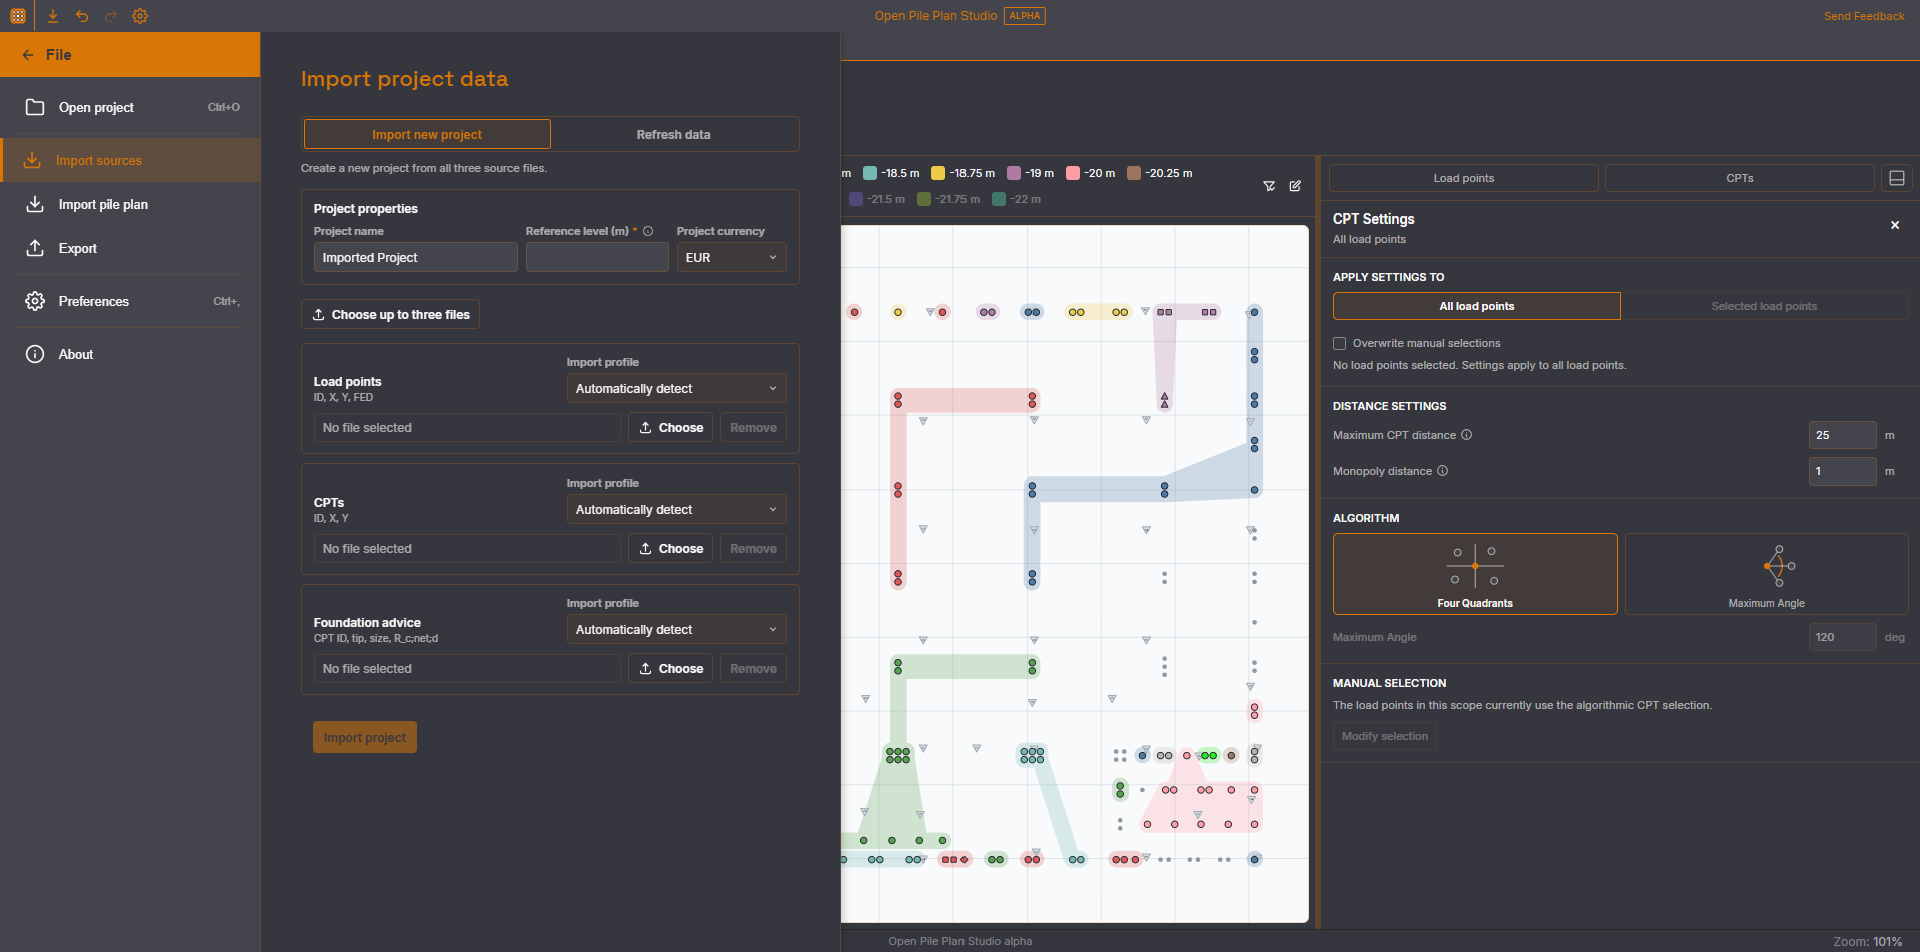
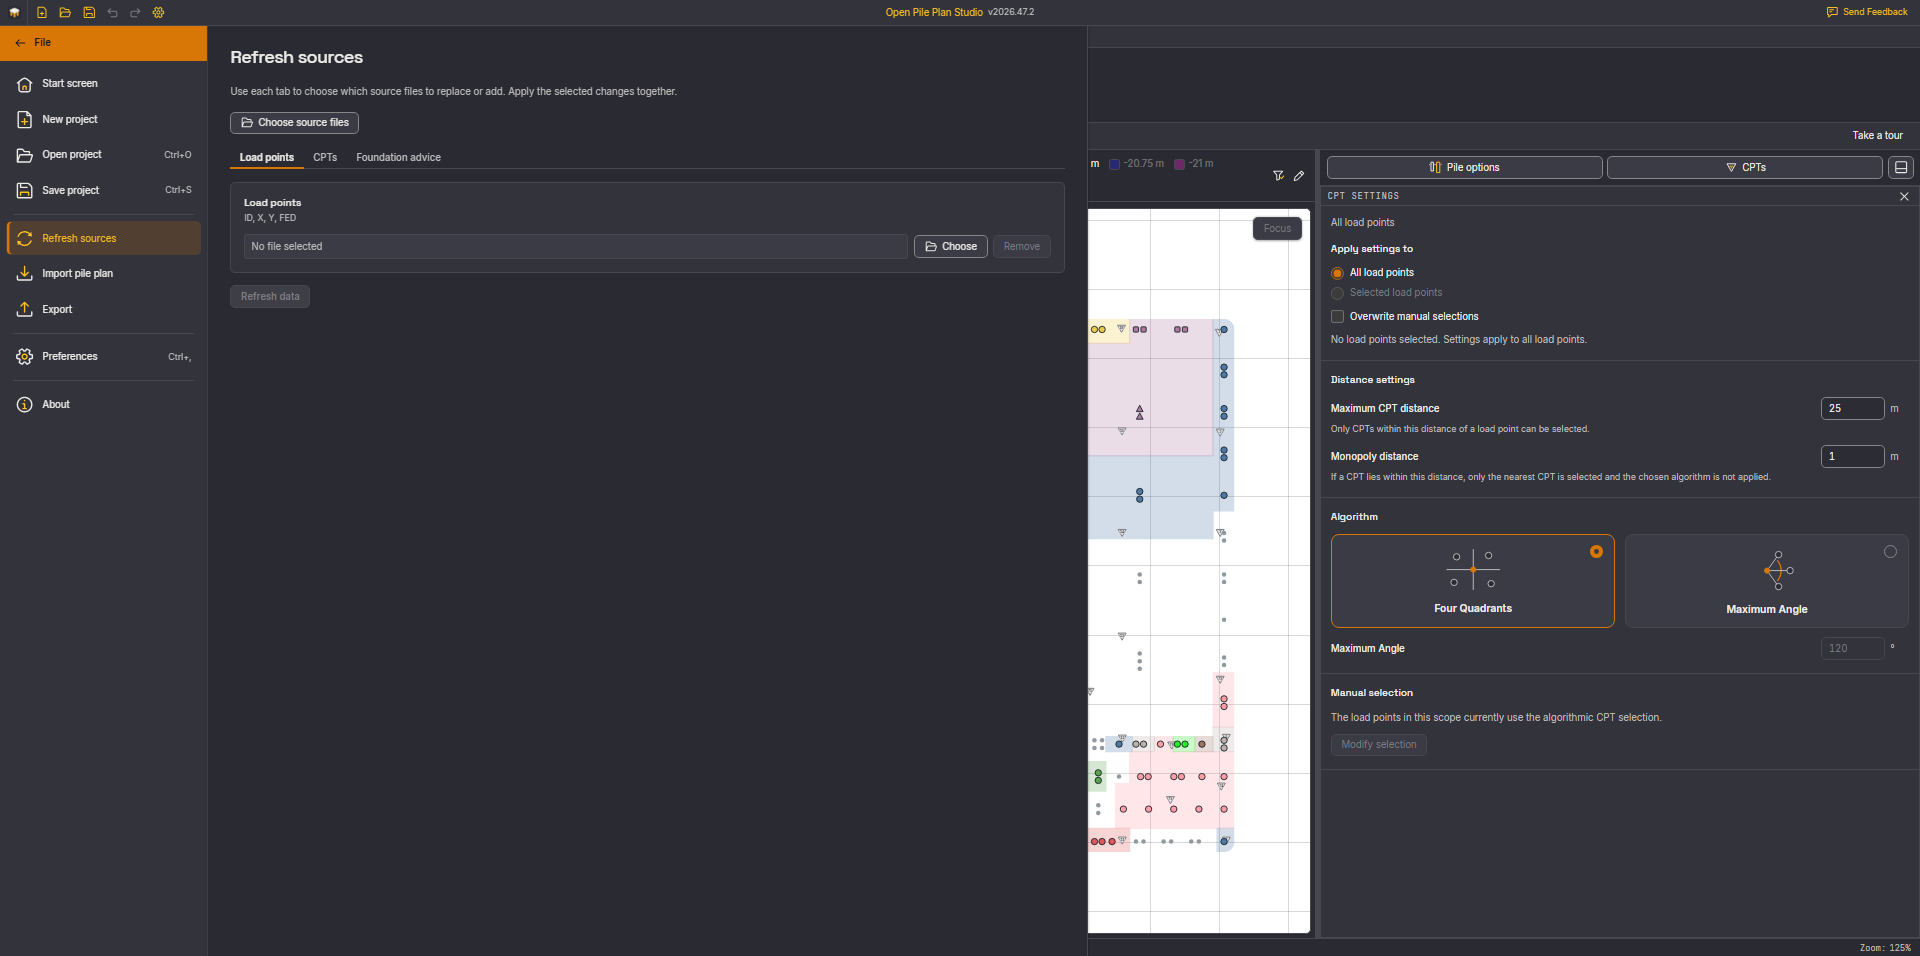
Align release version display and refresh documentation screenshots

diff --git a/apps/pile-plan-studio/src/components/template/TitleBar.tsx b/apps/pile-plan-studio/src/components/template/TitleBar.tsx
@@ -1,7 +1,6 @@
-import { useEffect, useState, type ReactNode } from "react";
+import type { ReactNode } from "react";
 import { useTranslation } from "react-i18next";
-import { isTauriRuntime } from "../../core/coreTransport.ts";
-import { PRODUCT_STATUS_KEY } from "../../productInfo.ts";
+import { IS_ALPHA_RELEASE, PRODUCT_INFO } from "../../productInfo.ts";
 import { Button, IconButton, OpenAECProvider, Status } from "../../openaec/react/src/index";
 import spriteUrl from "../../openaec/studioSprite.ts";
 import "../../openaec/openaec-components.css";
@@ -35,19 +34,9 @@ export default function TitleBar({
   onUndo, onRedo, onNewProject, onOpenProject, onSettingsClick, onFeedbackClick, interfaceScaleControl,
 }: TitleBarProps) {
   const { t } = useTranslation();
-  const releaseStatus = t(PRODUCT_STATUS_KEY);
-  const [appVersion, setAppVersion] = useState("");
   const projectActionLabel = t(projectActionKind === "save" ? "save" : "saveProjectDownload");
   const newProjectLabel = t("startScreen.newProject");
   const openProjectLabel = t("startScreen.openProject");
-  useEffect(() => {
-    if (!isTauriRuntime()) return;
-    let active = true;
-    import("@tauri-apps/api/app").then(api => api.getVersion())
-      .then(version => { if (active) setAppVersion(version); })
-      .catch(() => { if (active) setAppVersion(""); });
-    return () => { active = false; };
-  }, []);
 
   return <OpenAECProvider sprite={spriteUrl}>
     <header className="oa-app titlebar titlebar-blueprint" role="banner" onKeyDown={event => {
@@ -77,11 +66,11 @@ export default function TitleBar({
       </div>
       <div className="titlebar-title">
         <span className="titlebar-name">{t("appName")}</span>
-        <span className="titlebar-release-badge" data-tooltip={t("engineeringDisclaimer")}
-          aria-label={releaseStatus + ": " + t("engineeringDisclaimer")} tabIndex={0}>
-          <Status tone={PRODUCT_STATUS_KEY === "alphaLabel" ? "warning" : "success"}>{releaseStatus}</Status>
-        </span>
-        {appVersion && <span className="titlebar-version">v{appVersion}</span>}
+        <span className="titlebar-version" data-tooltip={t("engineeringDisclaimer")}
+          aria-label={`v${PRODUCT_INFO.version}. ${t("engineeringDisclaimer")}`} tabIndex={0}>v{PRODUCT_INFO.version}</span>
+        {IS_ALPHA_RELEASE && <span className="titlebar-release-badge">
+          <Status tone="warning">{t("alphaLabel")}</Status>
+        </span>}
       </div>
       <div className="titlebar-actions">
         <div className="titlebar-scale-anchor">{interfaceScaleControl}</div>

diff --git a/apps/pile-plan-studio/src/components/template/chromeActions.test.tsx b/apps/pile-plan-studio/src/components/template/chromeActions.test.tsx
@@ -1,7 +1,7 @@
 import { fireEvent, render, screen, waitFor } from "@testing-library/react";
 import { expect, test, vi } from "vitest";
 import i18n from "../../i18n/config.ts";
-import { PRODUCT_STATUS_KEY } from "../../productInfo.ts";
+import { IS_ALPHA_RELEASE, PRODUCT_INFO } from "../../productInfo.ts";
 import TitleBar from "./TitleBar.tsx";
 import FeedbackDialog from "./feedback/FeedbackDialog.tsx";
 import StatusBar from "./StatusBar.tsx";
@@ -45,8 +45,10 @@ test("shared titlebar actions expose shortcuts and use the application tooltip l
   fireEvent.focus(save);
   expect(screen.getByRole("tooltip").textContent).toContain("Ctrl+S");
   const release = view.container.querySelector(".titlebar-release-badge");
-  expect(release?.textContent).toBe(i18n.t(PRODUCT_STATUS_KEY));
-  expect(release?.getAttribute("data-tooltip")).toBe(i18n.t("engineeringDisclaimer"));
+  expect(release?.textContent ?? null).toBe(IS_ALPHA_RELEASE ? i18n.t("alphaLabel") : null);
+  const version = view.container.querySelector(".titlebar-version");
+  expect(version?.textContent).toBe(`v${PRODUCT_INFO.version}`);
+  expect(version?.getAttribute("data-tooltip")).toBe(i18n.t("engineeringDisclaimer"));
   const redo = screen.getByRole("button", { name: "Redo change" });
   expect(redo.getAttribute("data-tooltip")).toBeNull();
 });

diff --git a/apps/pile-plan-studio/src/components/template/settings/SettingsDialog.tsx b/apps/pile-plan-studio/src/components/template/settings/SettingsDialog.tsx
@@ -1,7 +1,7 @@
 import { useState, useEffect, useRef } from "react";
 import { useTranslation } from "react-i18next";
 import { LANGUAGES, changeLanguage } from "../../../i18n/config";
-import { PRODUCT_INFO, PRODUCT_STATUS_KEY } from "../../../productInfo.ts";
+import { IS_ALPHA_RELEASE, PRODUCT_INFO } from "../../../productInfo.ts";
 import type { UserLanguage } from "../../../domain/settings/userSettings.ts";
 import type { McpConnection } from "../../../app/mcp/desktopBridge.ts";
 import { applyTheme } from "../../../app/appearance/applyAppearance.ts";
@@ -423,7 +423,7 @@ function AboutTabContent() {
           {t("about.description")}
         </p>
         <p><strong>{t("about.version")}:</strong> {PRODUCT_INFO.version}</p>
-        <p><strong>{t("about.status")}:</strong> {tCommon(PRODUCT_STATUS_KEY)}</p>
+        {IS_ALPHA_RELEASE && <p><strong>{t("about.status")}:</strong> {tCommon("alphaLabel")}</p>}
         <p><strong>{t("about.organization")}:</strong> {PRODUCT_INFO.organization}</p>
         <p><strong>{t("about.license")}:</strong> {PRODUCT_INFO.license}</p>
       </div>

diff --git a/apps/pile-plan-studio/src/components/template/backstage/AboutPanel.tsx b/apps/pile-plan-studio/src/components/template/backstage/AboutPanel.tsx
@@ -1,7 +1,7 @@
 import { useTranslation } from "react-i18next";
 import { isTauriRuntime } from "../../../core/coreTransport.ts";
 import { Button, Heading, InfoCard } from "../../../openaec/react/src/index";
-import { PRODUCT_INFO, PRODUCT_STATUS_KEY } from "../../../productInfo.ts";
+import { IS_ALPHA_RELEASE, PRODUCT_INFO } from "../../../productInfo.ts";
 
 export default function AboutPanel({ hideLinks = false }: { hideLinks?: boolean }){
   const {t}=useTranslation("backstage");
@@ -21,7 +21,7 @@ export default function AboutPanel({ hideLinks = false }: { hideLinks?: boolean 
     <p className="bs-about-tagline">{t("aboutPanel.tagline")}</p>
     <p>{t("aboutPanel.description")}</p>
     <InfoCard title={PRODUCT_INFO.name} facts={[
-      [t("aboutPanel.version"),`${PRODUCT_INFO.version} · ${tCommon(PRODUCT_STATUS_KEY)}`],
+      [t("aboutPanel.version"),IS_ALPHA_RELEASE ? `${PRODUCT_INFO.version} · ${tCommon("alphaLabel")}` : PRODUCT_INFO.version],
       [t("aboutPanel.license"),PRODUCT_INFO.license],
     ]}/>
     <section className="bs-about-company">

diff --git a/apps/pile-plan-studio/src/components/template/CommandSurface.test.ts b/apps/pile-plan-studio/src/components/template/CommandSurface.test.ts
@@ -10,11 +10,11 @@ describe("Application command surfaces", () => {
     const enCommon = readFileSync(resolve(import.meta.dirname, "../../i18n/locales/en/common.json"), "utf8");
     const nlCommon = readFileSync(resolve(import.meta.dirname, "../../i18n/locales/nl/common.json"), "utf8");
 
-    assert.match(titleBar, /t\(PRODUCT_STATUS_KEY\)/);
+    assert.match(titleBar, /v\{PRODUCT_INFO\.version\}/);
+    assert.match(titleBar, /IS_ALPHA_RELEASE && <span className="titlebar-release-badge"/);
+    assert.match(titleBar, /data-tooltip=\{t\("engineeringDisclaimer"\)\}/);
     assert.match(enCommon, /"alphaLabel":\s*"Alpha"/);
     assert.match(nlCommon, /"alphaLabel":\s*"Alpha"/);
-    assert.match(enCommon, /"stableLabel":\s*"Stable"/);
-    assert.match(nlCommon, /"stableLabel":\s*"Stabiel"/);
     assert.match(enCommon, /professional verification/i);
     assert.match(nlCommon, /deskundige/);
   });

diff --git a/apps/pile-plan-studio/src/productInfo.test.ts b/apps/pile-plan-studio/src/productInfo.test.ts
@@ -43,10 +43,10 @@ describe("product information", () => {
     assert.match(productInfo, /version:\s*__APP_VERSION__/);
     const expected = releaseInfo(packageJson, { allowLegacy: true });
     Object.assign(globalThis, { __APP_VERSION__: expected.version, __APP_RELEASE_STATUS__: expected.status });
-    const { PRODUCT_INFO, PRODUCT_STATUS_KEY } = await import("./productInfo.ts");
+    const { PRODUCT_INFO, IS_ALPHA_RELEASE } = await import("./productInfo.ts");
     assert.equal(PRODUCT_INFO.version, expected.version);
     assert.equal(PRODUCT_INFO.status, expected.status);
-    assert.equal(PRODUCT_STATUS_KEY, expected.prerelease ? "alphaLabel" : "stableLabel");
+    assert.equal(IS_ALPHA_RELEASE, expected.prerelease);
     assert.match(productInfo, /organization:\s*"OpenAEC Foundation"/);
     assert.match(productInfo, /license:\s*"LGPL-3\.0-or-later"/);
   });

diff --git a/apps/pile-plan-studio/src/components/template/TitleBar.test.ts b/apps/pile-plan-studio/src/components/template/TitleBar.test.ts
@@ -35,7 +35,7 @@ describe("title bar history controls", () => {
     assert.match(source, /icon="file\.new"[\s\S]*?onClick=\{onNewProject\}/);
     assert.match(source, /icon="file\.open"[\s\S]*?onClick=\{onOpenProject\}/);
     assert.match(source, /<IconButton/);
-    assert.match(source, /<Status tone=\{PRODUCT_STATUS_KEY/);
+    assert.match(source, /<Status tone="warning"/);
     assert.doesNotMatch(source, /<path|<polyline|<circle/);
   });
 

diff --git a/apps/pile-plan-studio/src/productInfo.ts b/apps/pile-plan-studio/src/productInfo.ts
@@ -6,4 +6,4 @@ export const PRODUCT_INFO = Object.freeze({
   license: "LGPL-3.0-or-later",
 });
 
-export const PRODUCT_STATUS_KEY = PRODUCT_INFO.status === "Alpha" ? "alphaLabel" : "stableLabel";
+export const IS_ALPHA_RELEASE = PRODUCT_INFO.status === "Alpha";

diff --git a/README.md b/README.md
@@ -6,7 +6,6 @@
 
 <p align="center">
   <a href="RELEASE_NOTES.md"><img src="https://img.shields.io/badge/release-v2026.47.2-D97706?style=flat-square" alt="Release v2026.47.2"></a>
-  <img src="https://img.shields.io/badge/status-Stable-3F8F56?style=flat-square" alt="Status: Stable">
   <a href="https://github.com/OpenAEC-Foundation/pile-plan-studio/releases"><img src="https://img.shields.io/github/downloads/OpenAEC-Foundation/pile-plan-studio/total?style=flat-square" alt="Total downloads"></a>
   <a href="LICENSE"><img src="https://img.shields.io/badge/license-LGPL--3.0-blue?style=flat-square" alt="LGPL-3.0 license"></a>
   <a href="https://pile-plan-studio.open-aec.com/"><img src="https://img.shields.io/badge/platform-Web%20%7C%20Windows%20%7C%20macOS%20%7C%20Linux-lightgrey?style=flat-square" alt="Web, Windows, macOS and Linux"></a>

diff --git a/docs/deployment.md b/docs/deployment.md
@@ -140,8 +140,9 @@ The browser build and Windows desktop build use the same Rust calculation core.
 The app `package.json` is the source of the product version and release metadata:
 `version`, `release.channel` and `release.date`. Set `release.channel` to
 `stable` for a stable release or `alpha` for a prerelease before preparing its
-version. The app and GitHub draft use this same channel. Both channels share
-the numeric version sequence.
+version. The app displays the version and adds a badge for alpha builds.
+The GitHub draft uses the selected channel. Both channels share the numeric
+version sequence.
 
 New releases use `YYYY.W.N` and tags use `vYYYY.W.N`, without an alpha suffix or
 leading zeros. `YYYY` is the ISO week-numbering year, `W` the ISO week and `N` a

diff --git a/RELEASE_NOTES.md b/RELEASE_NOTES.md
@@ -5,7 +5,7 @@
 ### Stable desktop release
 
 - Publish the first stable desktop release for Windows, macOS and Linux.
-- Show the release channel in the app and retain the engineering review
+- Show the product version in the app and retain the engineering review
   notice. A qualified professional must verify results before they are used
   in foundation design, procurement or construction.
 - Open the web app inside the OpenAEC Installer tab using the browser runtime.
